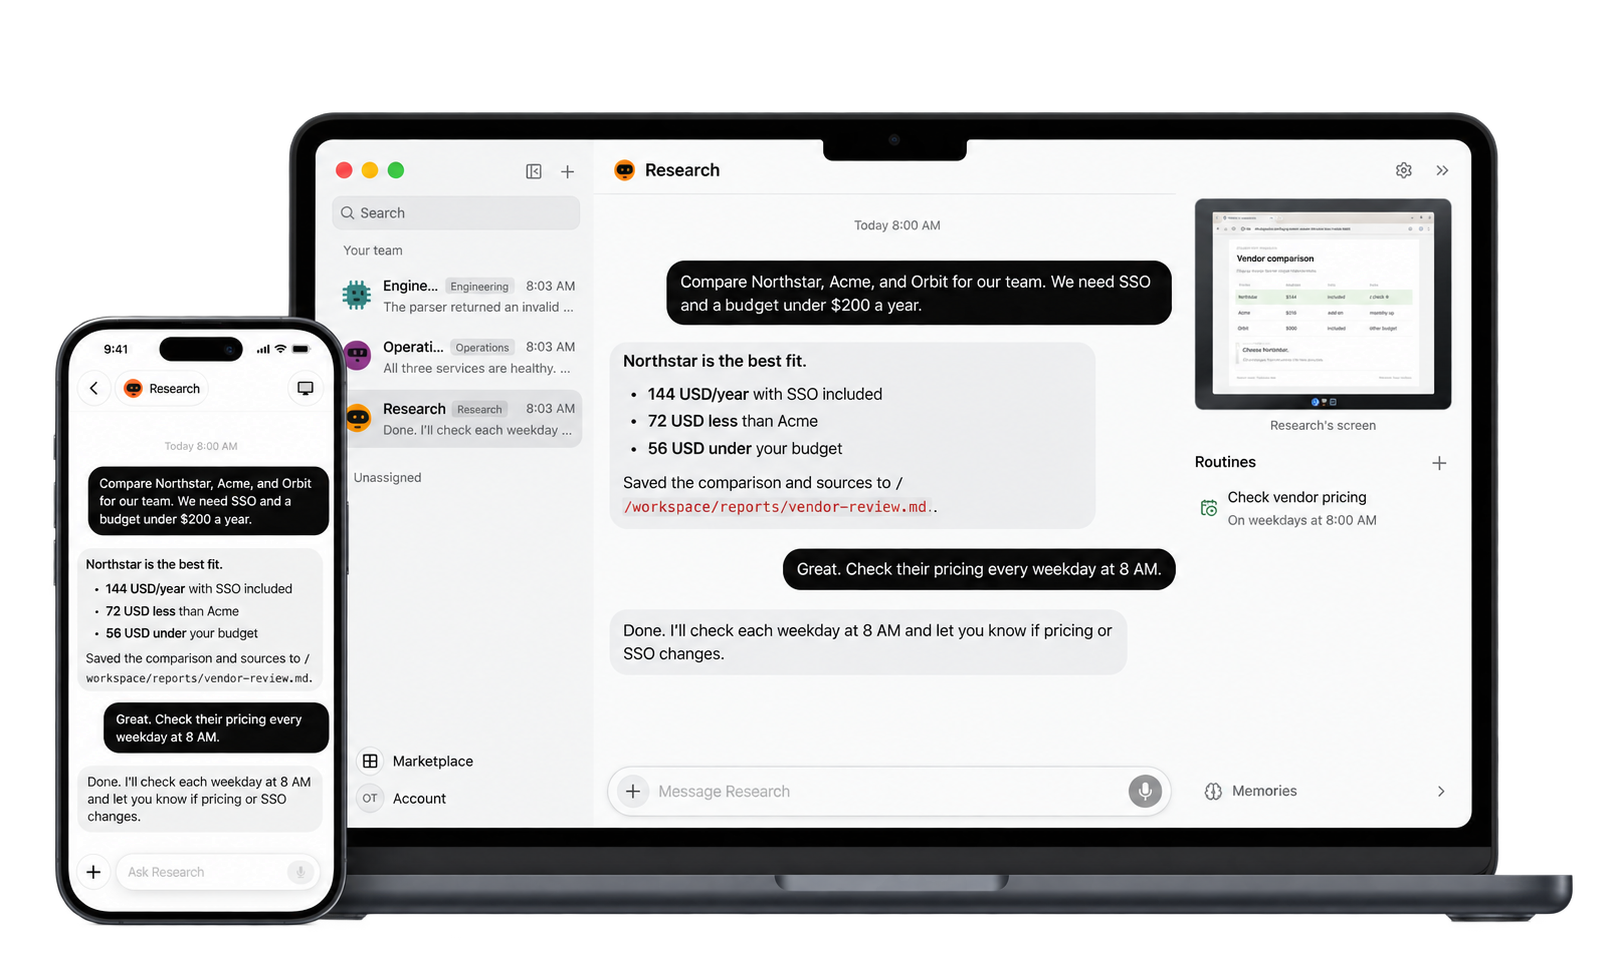
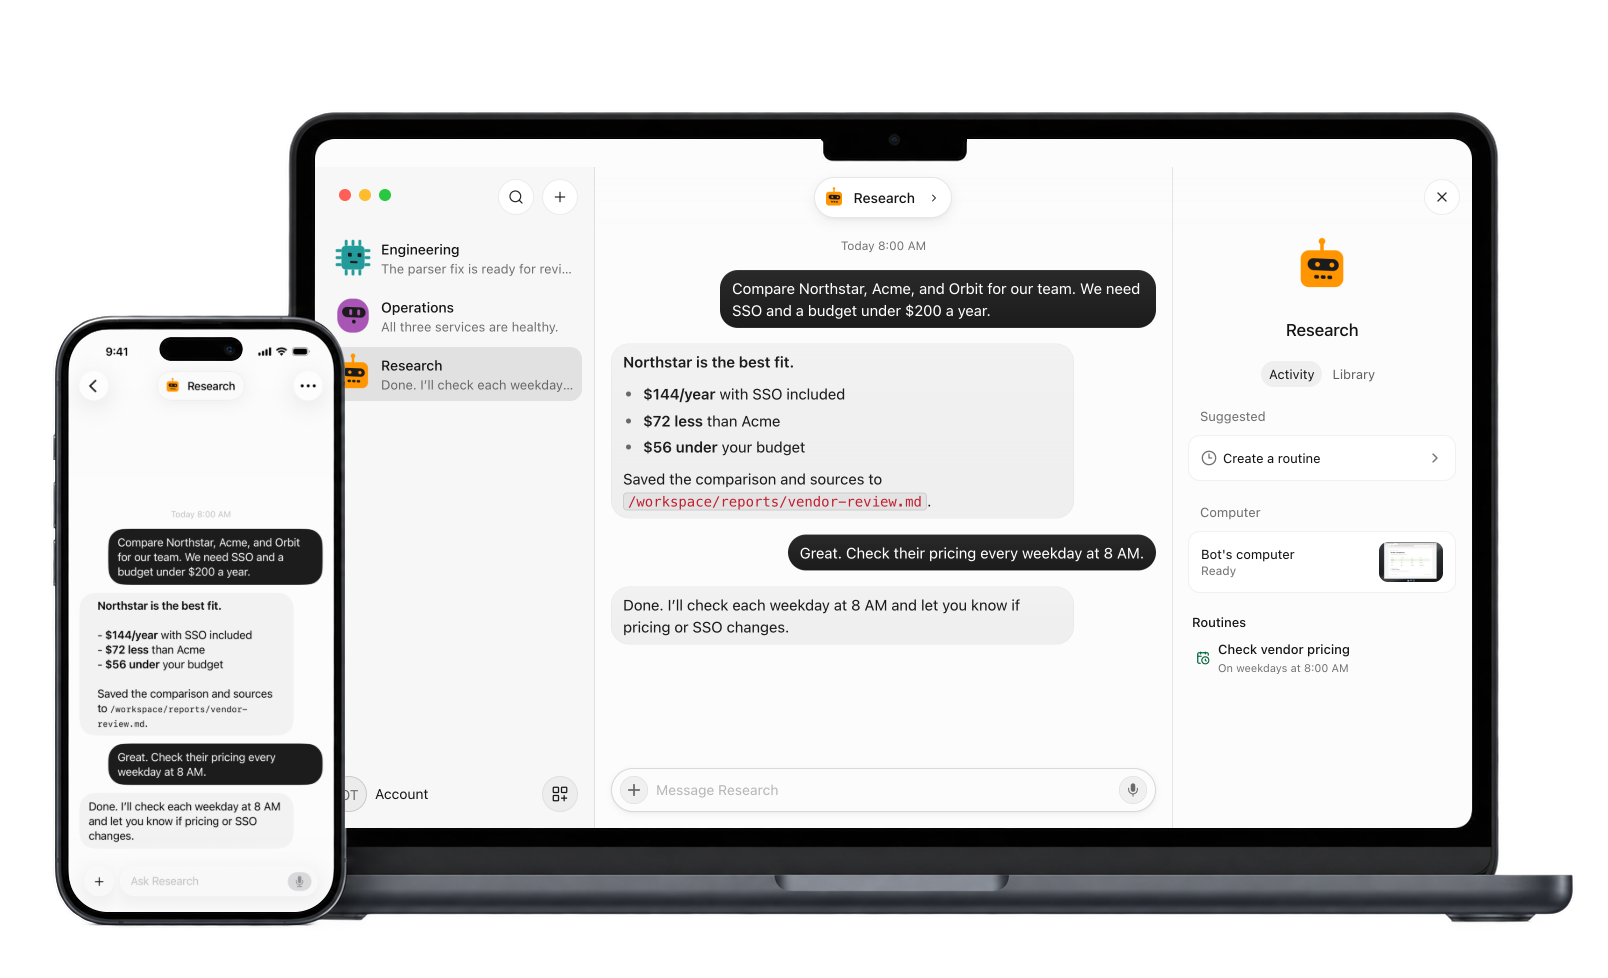
Refresh README artwork with current desktop and iPhone UI (#351)

diff --git a/docs/images/SOURCES.md b/docs/images/SOURCES.md
@@ -1,0 +1,18 @@
+# README artwork
+
+`openteam-desktop-mobile.png` was refreshed on November 15, 2026 from
+`db3607240` (the current `main` at capture time).
+
+- Desktop: the production React `App`, rendered locally in light mode with
+  fictional bots, a vendor comparison, and a weekday pricing routine. The bot
+  details panel shows the Activity and Library tabs and computer preview.
+- iPhone: the native SwiftUI app, built in Debug with Xcode 27.1 and captured
+  in an iPhone 17 Pro simulator running iOS 26.5, using the same fictional
+  conversation through a loopback-only fixture server.
+- Computer preview: the existing `apps/landing/public/screenshots/linux-vendor-review.png`
+  sample report capture; it is not a newly executed comparison.
+
+The captures replace the screens within the original transparent MacBook and
+iPhone artwork. Device frames and composition are retained; native Mac window
+controls and space for the display notch are added when framing the desktop
+renderer. No real accounts, model calls, or scheduled tasks were used.

diff --git a/README.md b/README.md
@@ -9,7 +9,7 @@ take over when needed, or come back when the work is done.
 [Website](https://openteam.so) · [Get started](#get-started) · [Download apps](#apps) · [Documentation](https://openteam.so/docs) ·
 [Develop from source](https://openteam.so/docs/development/from-source)
 
-[![OpenTeam desktop and iPhone apps showing the same vendor comparison and weekday pricing check](docs/images/openteam-desktop-mobile.png)](docs/images/openteam-desktop-mobile.png)
+[![OpenTeam desktop and iPhone apps showing a vendor comparison, bot details, and a weekday pricing routine](docs/images/openteam-desktop-mobile.png)](docs/images/openteam-desktop-mobile.png)
 
 ## What you can do
 
